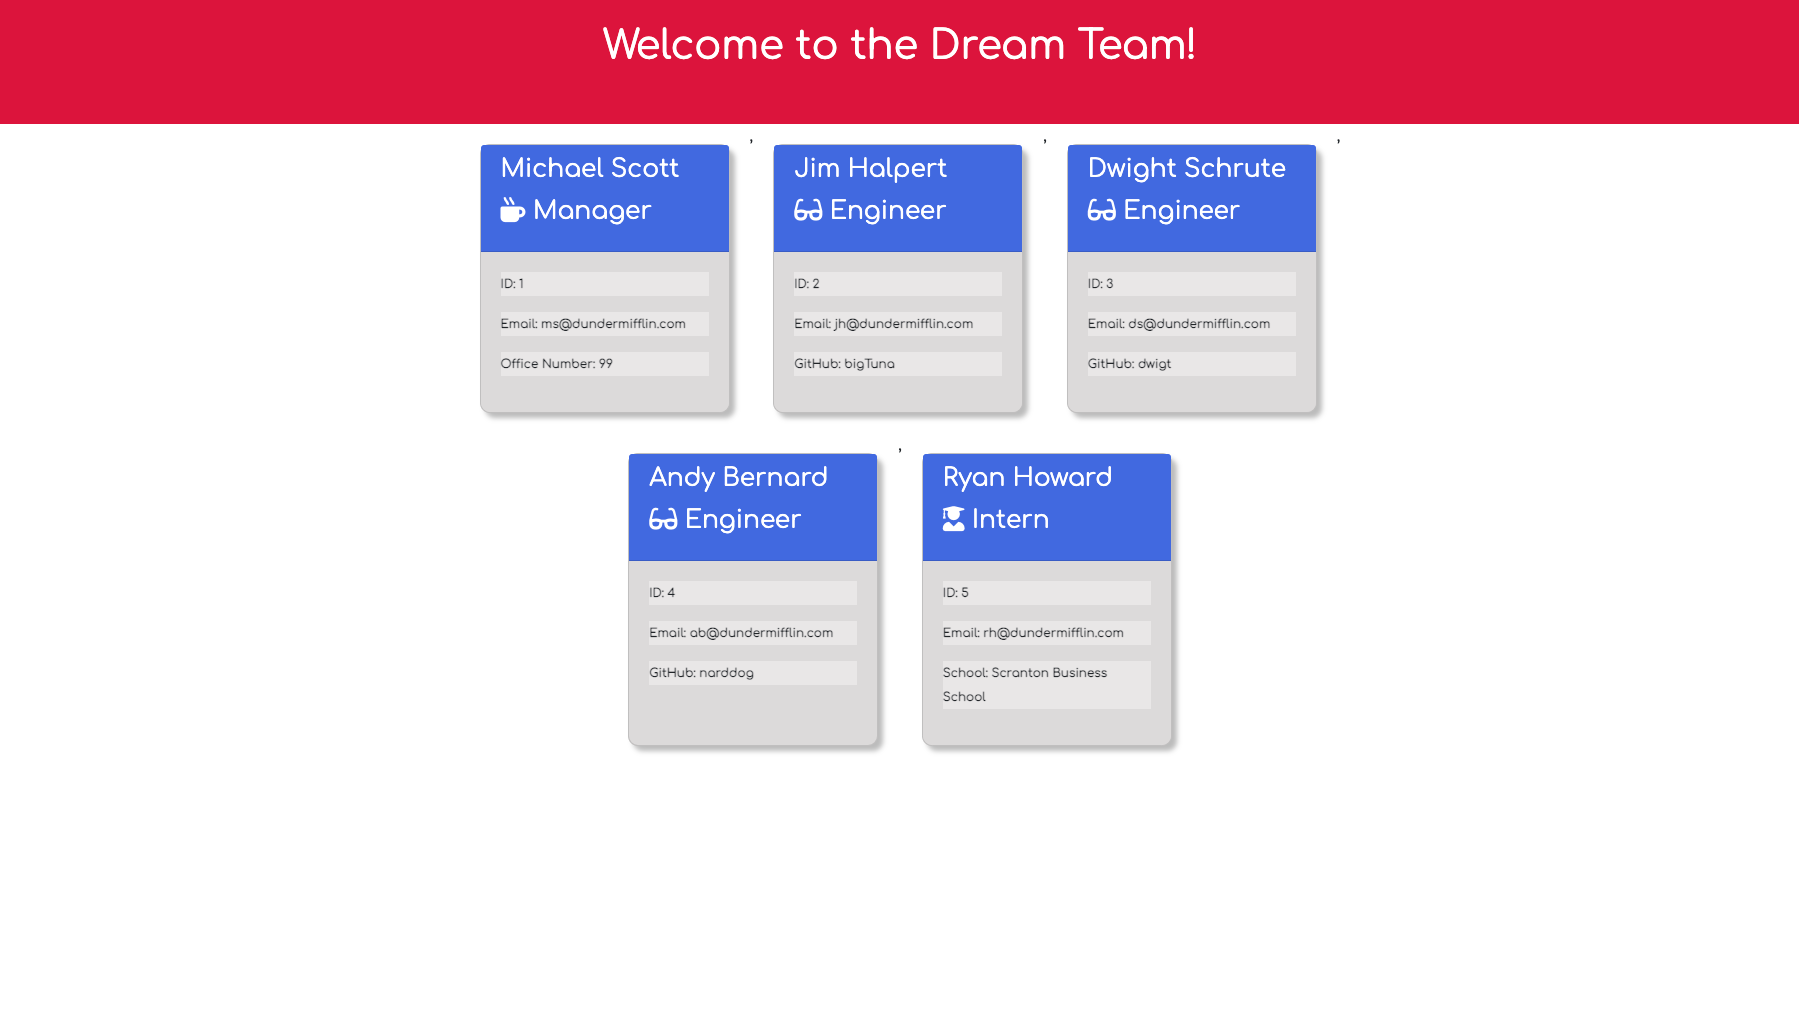
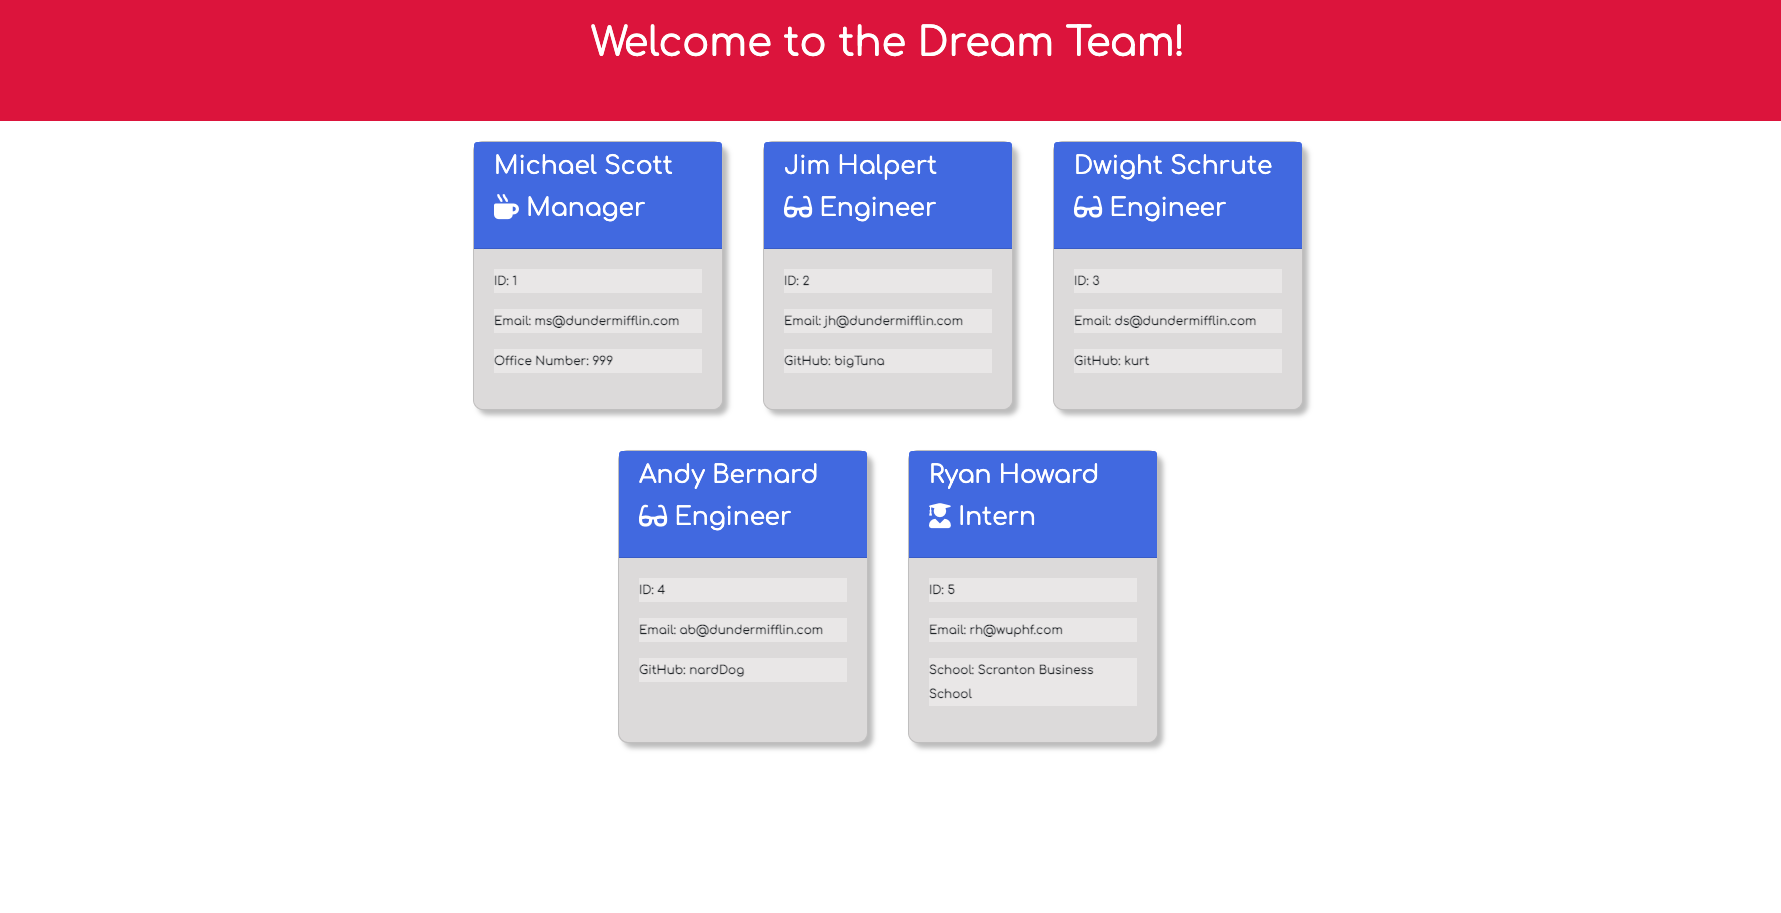
removed the commas between cards

Changed region(s): [[0.0, 0.1227, 1.0, 0.828], [0.3088, 0.0307, 0.6794, 0.0613]]

diff --git a/index.html b/index.html
@@ -1,3 +1,4 @@
+
 <!DOCTYPE html>
 <html lang="en">
 
@@ -21,97 +22,97 @@
 
     <section class="container" id="main">
         <div class="row justify-content-center">
-
-            <div class='card' id='memberCard'>
-                <div class='card-header'>
-                    <p id='name'>Michael Scott</p>
-                    <p id='role'><span><i class="fas fa-mug-hot"></i></span> Manager</p>
-                </div>
-                <div class='card-body'>
-                    <div class='info'>
-                        <p>ID: 1</p>
+            
+                <div class='card' id='memberCard'>
+                    <div class='card-header'>
+                        <p id='name'>Michael Scott</p>
+                        <p id='role'><span><i class="fas fa-mug-hot"></i></span> Manager</p>
                     </div>
-                    <div class='info'>
-                        <p>Email: ms@dundermifflin.com</p>
-                    </div>
-                    <div class='info'>
-                        <p>Office Number: 99</p>
-                    </div>
-                </div>
-            </div>
-            ,
-            <div class='card' id='memberCard'>
-                <div class='card-header'>
-                    <p id='name'>Jim Halpert</p>
-                    <p id='role'><span><i class="fas fa-glasses"></i></span> Engineer</p>
-                </div>
-                <div class='card-body'>
-                    <div class='info'>
-                        <p>ID: 2</p>
-                    </div>
-                    <div class='info'>
-                        <p>Email: jh@dundermifflin.com</p>
-                    </div>
-                    <div class='info'>
-                        <p>GitHub: bigTuna</p>
+                    <div class='card-body'>
+                        <div class='info'>
+                            <p>ID: 1</p>
+                        </div>
+                        <div class='info'>
+                            <p>Email: ms@dundermifflin.com</p>
+                        </div>
+                        <div class='info'>
+                            <p>Office Number: 999</p>
+                        </div> 
                     </div>
                 </div>
-            </div>
-            ,
-            <div class='card' id='memberCard'>
-                <div class='card-header'>
-                    <p id='name'>Dwight Schrute</p>
-                    <p id='role'><span><i class="fas fa-glasses"></i></span> Engineer</p>
-                </div>
-                <div class='card-body'>
-                    <div class='info'>
-                        <p>ID: 3</p>
+                
+                <div class='card' id='memberCard'>
+                    <div class='card-header'>
+                        <p id='name'>Jim Halpert</p>
+                        <p id='role'><span><i class="fas fa-glasses"></i></span> Engineer</p>
                     </div>
-                    <div class='info'>
-                        <p>Email: ds@dundermifflin.com</p>
-                    </div>
-                    <div class='info'>
-                        <p>GitHub: dwigt</p>
-                    </div>
-                </div>
-            </div>
-            ,
-            <div class='card' id='memberCard'>
-                <div class='card-header'>
-                    <p id='name'>Andy Bernard</p>
-                    <p id='role'><span><i class="fas fa-glasses"></i></span> Engineer</p>
-                </div>
-                <div class='card-body'>
-                    <div class='info'>
-                        <p>ID: 4</p>
-                    </div>
-                    <div class='info'>
-                        <p>Email: ab@dundermifflin.com</p>
-                    </div>
-                    <div class='info'>
-                        <p>GitHub: narddog</p>
+                    <div class='card-body'>
+                        <div class='info'>
+                            <p>ID: 2</p>
+                        </div>
+                        <div class='info'>
+                            <p>Email: jh@dundermifflin.com</p>
+                        </div>
+                        <div class='info'>
+                            <p>GitHub: bigTuna</p>
+                        </div> 
                     </div>
                 </div>
-            </div>
-            ,
-            <div class='card' id='memberCard'>
-                <div class='card-header'>
-                    <p id='name'>Ryan Howard</p>
-                    <p id='role'><span><i class="fas fa-user-graduate"></i></span> Intern</p>
+                
+                <div class='card' id='memberCard'>
+                    <div class='card-header'>
+                        <p id='name'>Dwight Schrute</p>
+                        <p id='role'><span><i class="fas fa-glasses"></i></span> Engineer</p>
+                    </div>
+                    <div class='card-body'>
+                        <div class='info'>
+                            <p>ID: 3</p>
+                        </div>
+                        <div class='info'>
+                            <p>Email: ds@dundermifflin.com</p>
+                        </div>
+                        <div class='info'>
+                            <p>GitHub: kurt</p>
+                        </div> 
+                    </div>
                 </div>
-                <div class='card-body'>
-                    <div class='info'>
-                        <p>ID: 5</p>
+                
+                <div class='card' id='memberCard'>
+                    <div class='card-header'>
+                        <p id='name'>Andy Bernard</p>
+                        <p id='role'><span><i class="fas fa-glasses"></i></span> Engineer</p>
                     </div>
-                    <div class='info'>
-                        <p>Email: rh@dundermifflin.com</p>
-                    </div>
-                    <div class='info'>
-                        <p>School: Scranton Business School</p>
+                    <div class='card-body'>
+                        <div class='info'>
+                            <p>ID: 4</p>
+                        </div>
+                        <div class='info'>
+                            <p>Email: ab@dundermifflin.com</p>
+                        </div>
+                        <div class='info'>
+                            <p>GitHub: nardDog</p>
+                        </div> 
                     </div>
                 </div>
-            </div>
-
+                
+                <div class='card' id='memberCard'>
+                    <div class='card-header'>
+                        <p id='name'>Ryan Howard</p>
+                        <p id='role'><span><i class="fas fa-user-graduate"></i></span> Intern</p>
+                    </div>
+                    <div class='card-body'>
+                        <div class='info'>
+                            <p>ID: 5</p>
+                        </div>
+                        <div class='info'>
+                            <p>Email: rh@wuphf.com</p>
+                        </div>
+                        <div class='info'>
+                            <p>School: Scranton Business School</p>
+                        </div> 
+                    </div>
+                </div>
+                
 
         </div>
     </section>

diff --git a/index.js b/index.js
@@ -64,7 +64,7 @@ async function getEmployees() {
                         </div> 
                     </div>
                 </div>
-                `);
+                `).join('');
             const html = template(cards)
             fs.writeFileSync('./index.html', html);
             console.log(goodbye);
